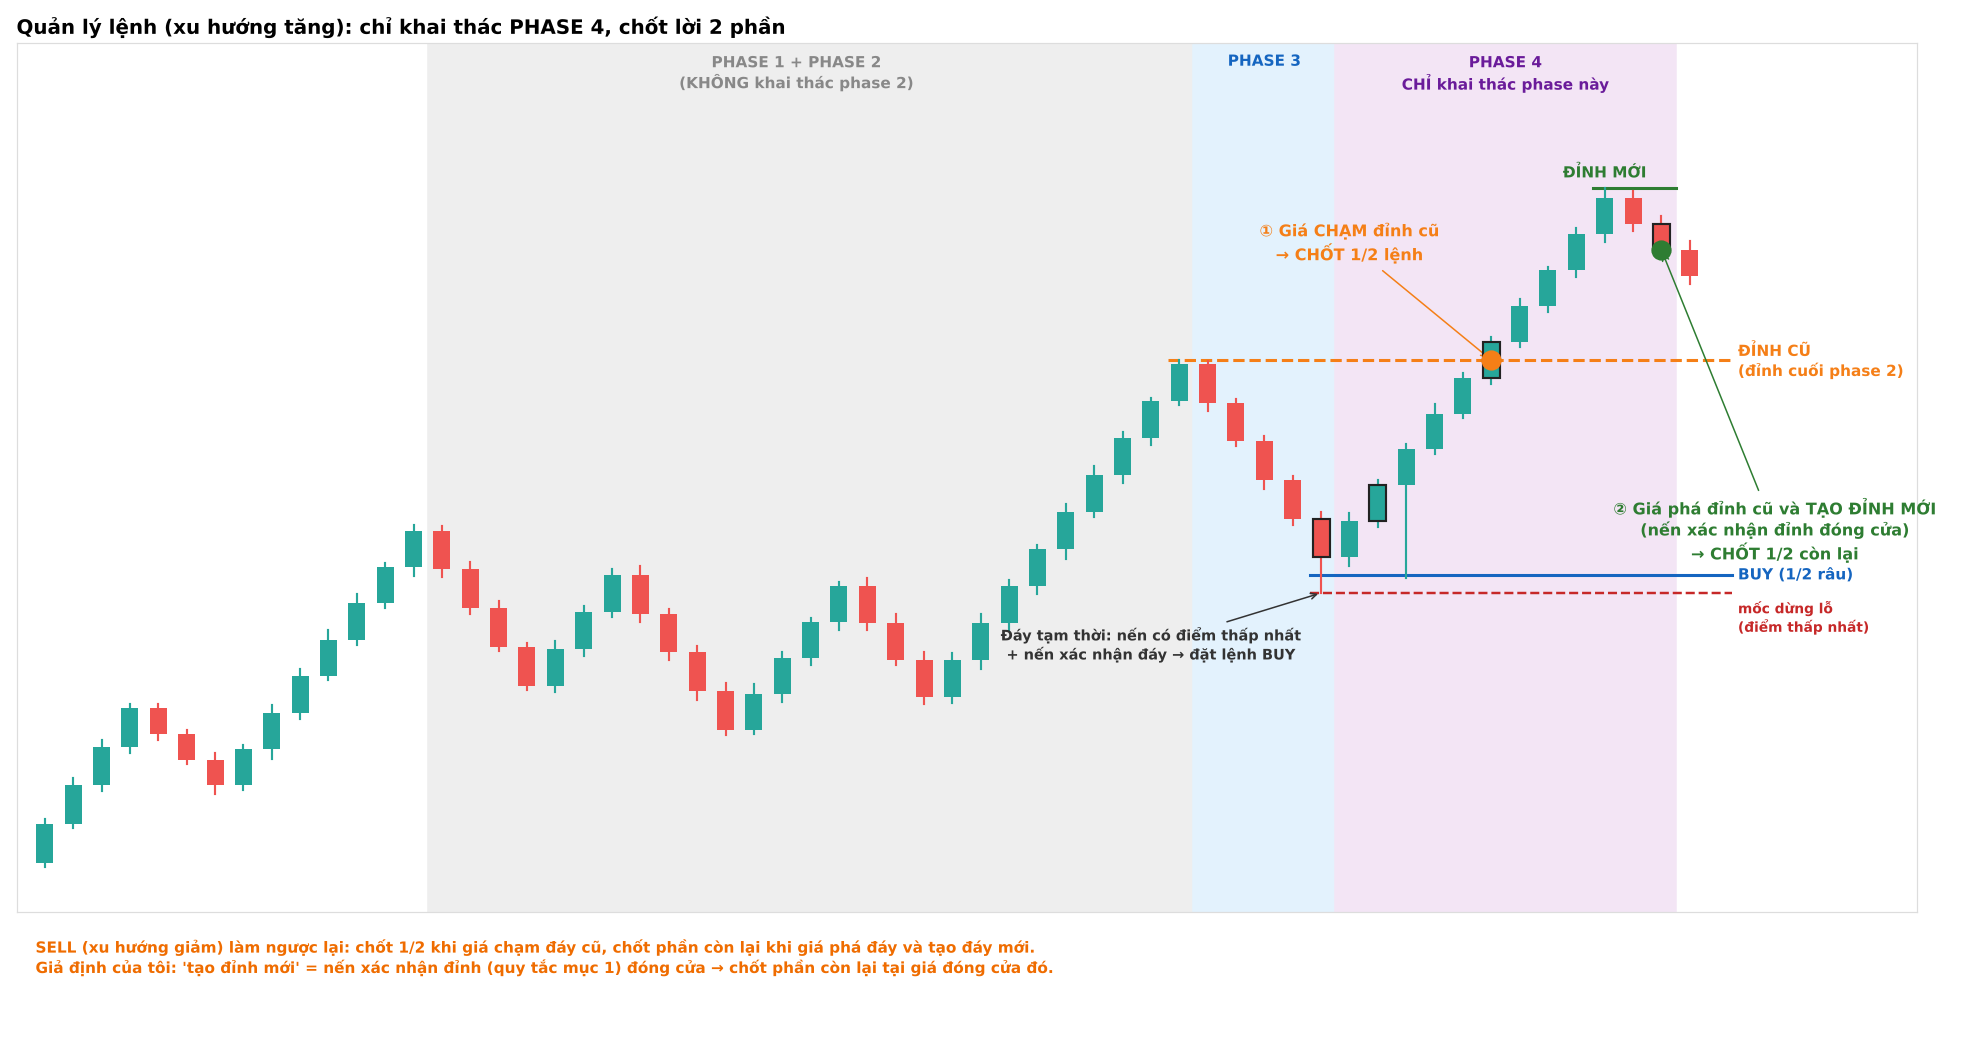
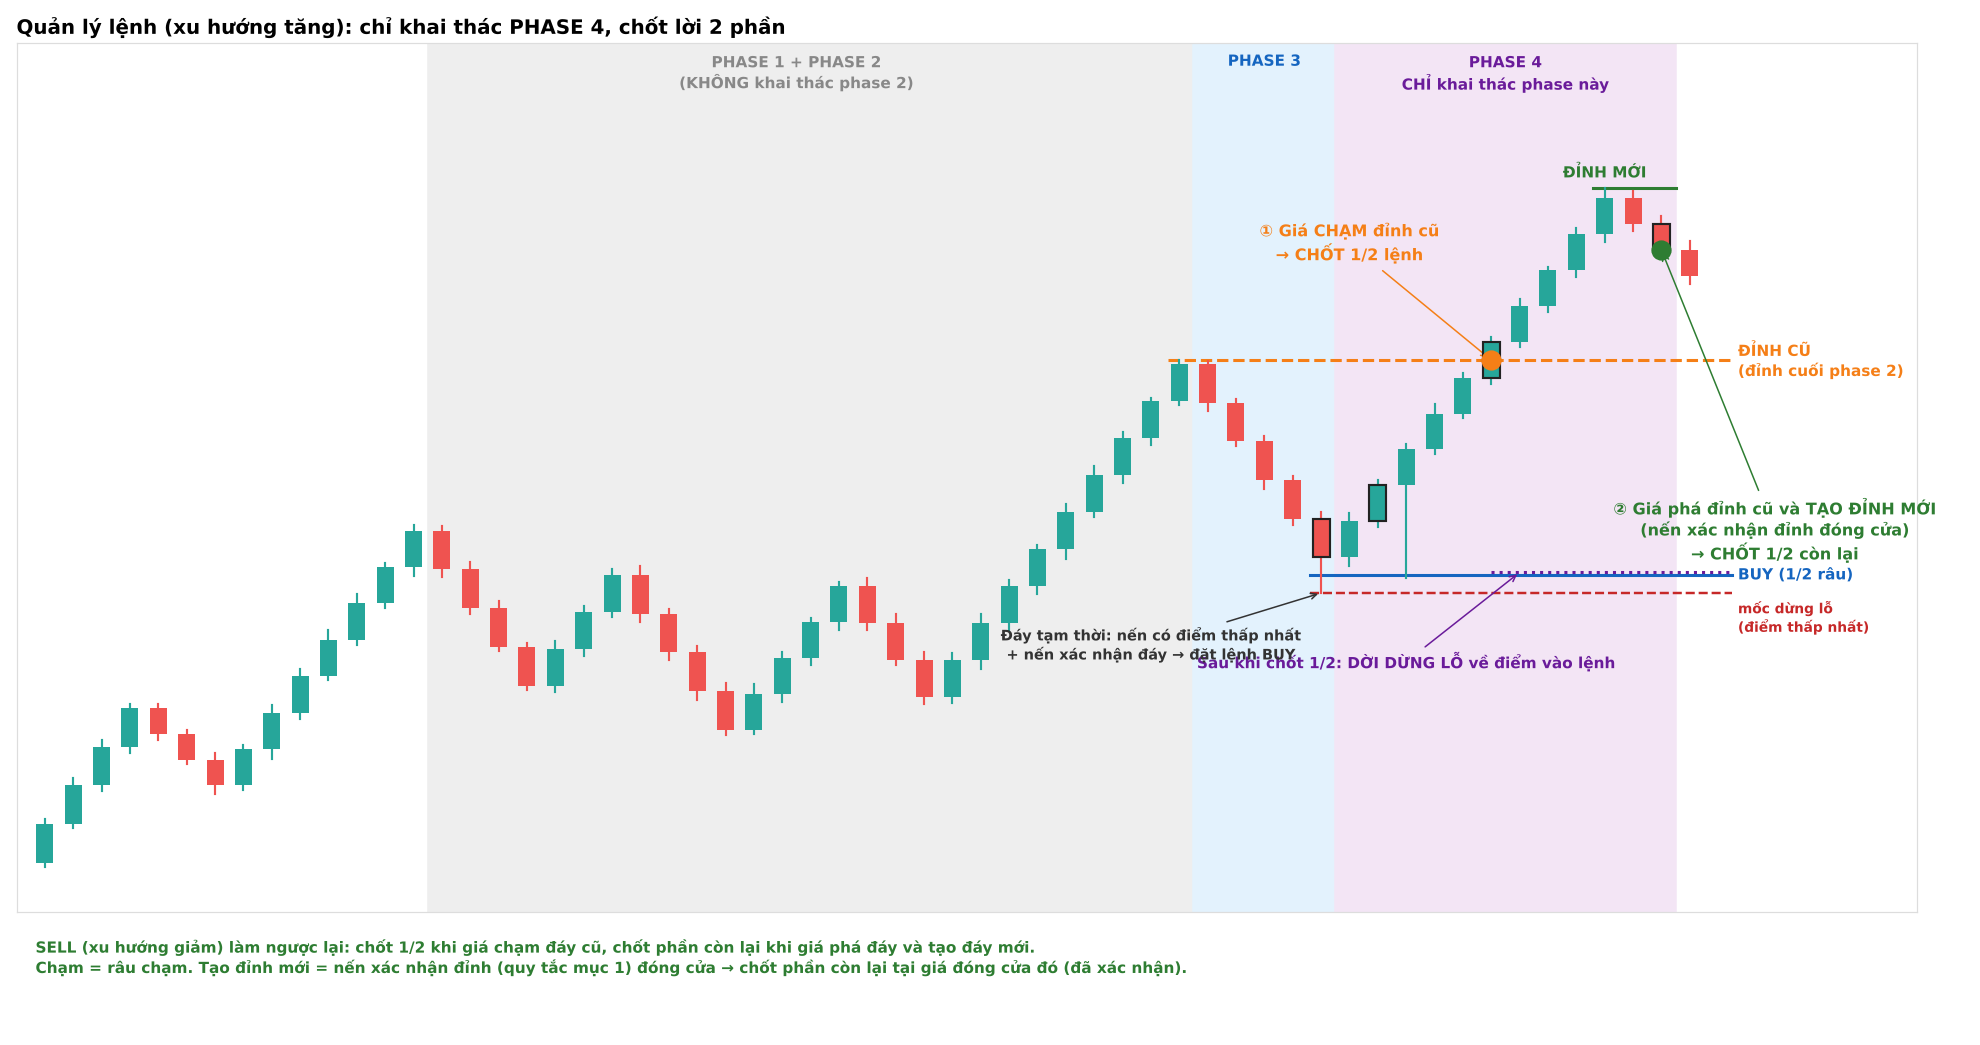
Quản lý lệnh: chốt điều kiện chốt lời và dời dừng lỗ về điểm vào
Claude-Session: https://claude.ai/code/session_01QDQqkxbAsnss6apbWZAP33

Changed region(s): [[0.0, 0.888, 0.5854, 0.9493], [0.6162, 0.6124, 0.8318, 0.6431]]

diff --git a/knowledge/05-quan-ly-lenh.md b/knowledge/05-quan-ly-lenh.md
@@ -5,14 +5,16 @@
 - Phase 2 và phase 4 của order flow đều kỳ vọng phá đỉnh/đáy trước đó, nhưng **CHỈ KHAI THÁC PHASE 4**, **không khai thác phase 2** (người dùng sửa lại; Claude hiểu câu "không khai thác phase mà chỉ khai thác phase 4" là "không khai thác phase 2").
 - Lệnh khai thác phase 4 vào ở **cuối phase 3** (đáy tạm thời khi BUY / đỉnh tạm thời khi SELL), theo cách vào lệnh tại POI hoặc quét thanh khoản (`03-setup.md` mục 6–7).
 
-## Chốt lời (người dùng đã giảng, chờ duyệt hình `examples/30-chot-loi-phase4.png`)
+## Chốt lời (đã xác nhận, xem `examples/30-chot-loi-phase4.png`)
 - **Chốt 1/2 lệnh** khi giá **chạm đỉnh cũ** (BUY) / **đáy cũ** (SELL) – tức đỉnh/đáy tạo ra ở cuối phase 2.
 - **Chốt phần còn lại** khi giá **phá đỉnh cũ và tạo đỉnh mới** (BUY) / phá đáy cũ và tạo đáy mới (SELL).
 
+- **"Chạm" đỉnh/đáy cũ** = râu nến chạm là đủ (đã xác nhận).
+- **"Tạo đỉnh mới"** = nến xác nhận đỉnh (quy tắc mục 1) đóng cửa → chốt phần còn lại tại giá đóng cửa của nến đó (đã xác nhận).
+- **Sau khi chốt 1/2 → dời dừng lỗ về điểm vào lệnh** (hòa vốn) cho phần còn lại (đã xác nhận).
+
 **Chưa chốt:**
-- "Chạm" đỉnh cũ = râu nến chạm là đủ?
-- "Tạo đỉnh mới" = nến xác nhận đỉnh (quy tắc mục 1) đóng cửa → chốt phần còn lại tại giá đóng cửa đó?
-- Sau khi chốt 1/2: có dời dừng lỗ (ví dụ về điểm vào) không?
+- Dừng lỗ ở điểm vào sau khi dời: vẫn theo giá đóng cửa (nến đóng thân qua điểm vào), hay chạm là thoát?
 
 ## Đã biết từ các bài trước (chi tiết trong `03-setup.md` mục 7)
 - **Vào lệnh:** đặt lệnh chờ tại 1/2 râu của nến có điểm thấp nhất (BUY) / cao nhất (SELL), sau khi có nến xác nhận đáy/đỉnh trong vùng POI.

diff --git a/CLAUDE.md b/CLAUDE.md
@@ -23,7 +23,8 @@ Repo này lưu phương pháp giao dịch do người dùng trực tiếp dạy 
 
 ## Tiến độ học (cập nhật 2026-11-22)
 - **Đã xong:** Bài 1 Đỉnh/Đáy; Bài 2 Cấu trúc thị trường (xu hướng tăng/giảm, đi ngang, dấu hiệu và xác nhận đảo chiều, chưa rõ xu hướng); Bài 3 Order flow (4 phase: tích lũy, sóng đẩy, hồi, tiếp diễn); Bài 4 PnD tool (premium/discount, phase 3 hợp lệ, order flow thiếu và 3 trường hợp khai thác). Bài 5 Thanh khoản: định nghĩa (tách riêng với POI), 3 loại thanh khoản, quy tắc quét. Bài 6 POI: FVG (định nghĩa), POI = nến có râu dài hơn thân + nến sau không đóng cửa thoát; chọn POI trong discount/premium có FVG hỗ trợ; POI hết hiệu lực; vào lệnh tại 1/2 râu sau khi tạo đáy/đỉnh; dừng lỗ khi nến đóng thân qua điểm thấp/cao nhất. Chi tiết trong `knowledge/03-setup.md`.
-- **Bài tiếp theo:** quản lý lệnh (chốt lời); BOS / CHoCH. (Đã xong: vào lệnh khi quét thanh khoản, mục 6 trong `03-setup.md`.)
+- **Đã xong thêm:** vào lệnh khi quét thanh khoản (`03-setup.md` mục 6); Bài 7 Quản lý lệnh: chỉ thuận xu hướng, chỉ khai thác phase 4, chốt 1/2 khi chạm đỉnh/đáy cũ, dời SL về điểm vào, chốt phần còn lại khi tạo đỉnh/đáy mới (`05-quan-ly-lenh.md`).
+- **Bài tiếp theo:** BOS / CHoCH; quản lý vốn (khối lượng, % rủi ro); khung thời gian, cặp tiền, phiên giao dịch.
 - **Câu hỏi đang chờ:** "râu dài hơn thân" khi QUÉT thanh khoản chỉ so phần râu quét?; phase 3 hồi về thanh khoản, POI hay cả hai; SL cứng (người dùng nghiên cứu sau).
 - **Đã đề xuất, chưa làm:** viết code tự động đánh dấu đỉnh/đáy và xu hướng trên dữ liệu giá thật để người dùng kiểm tra.
 - **Còn mở:** phân loại đỉnh/đáy lớn và nhỏ.
